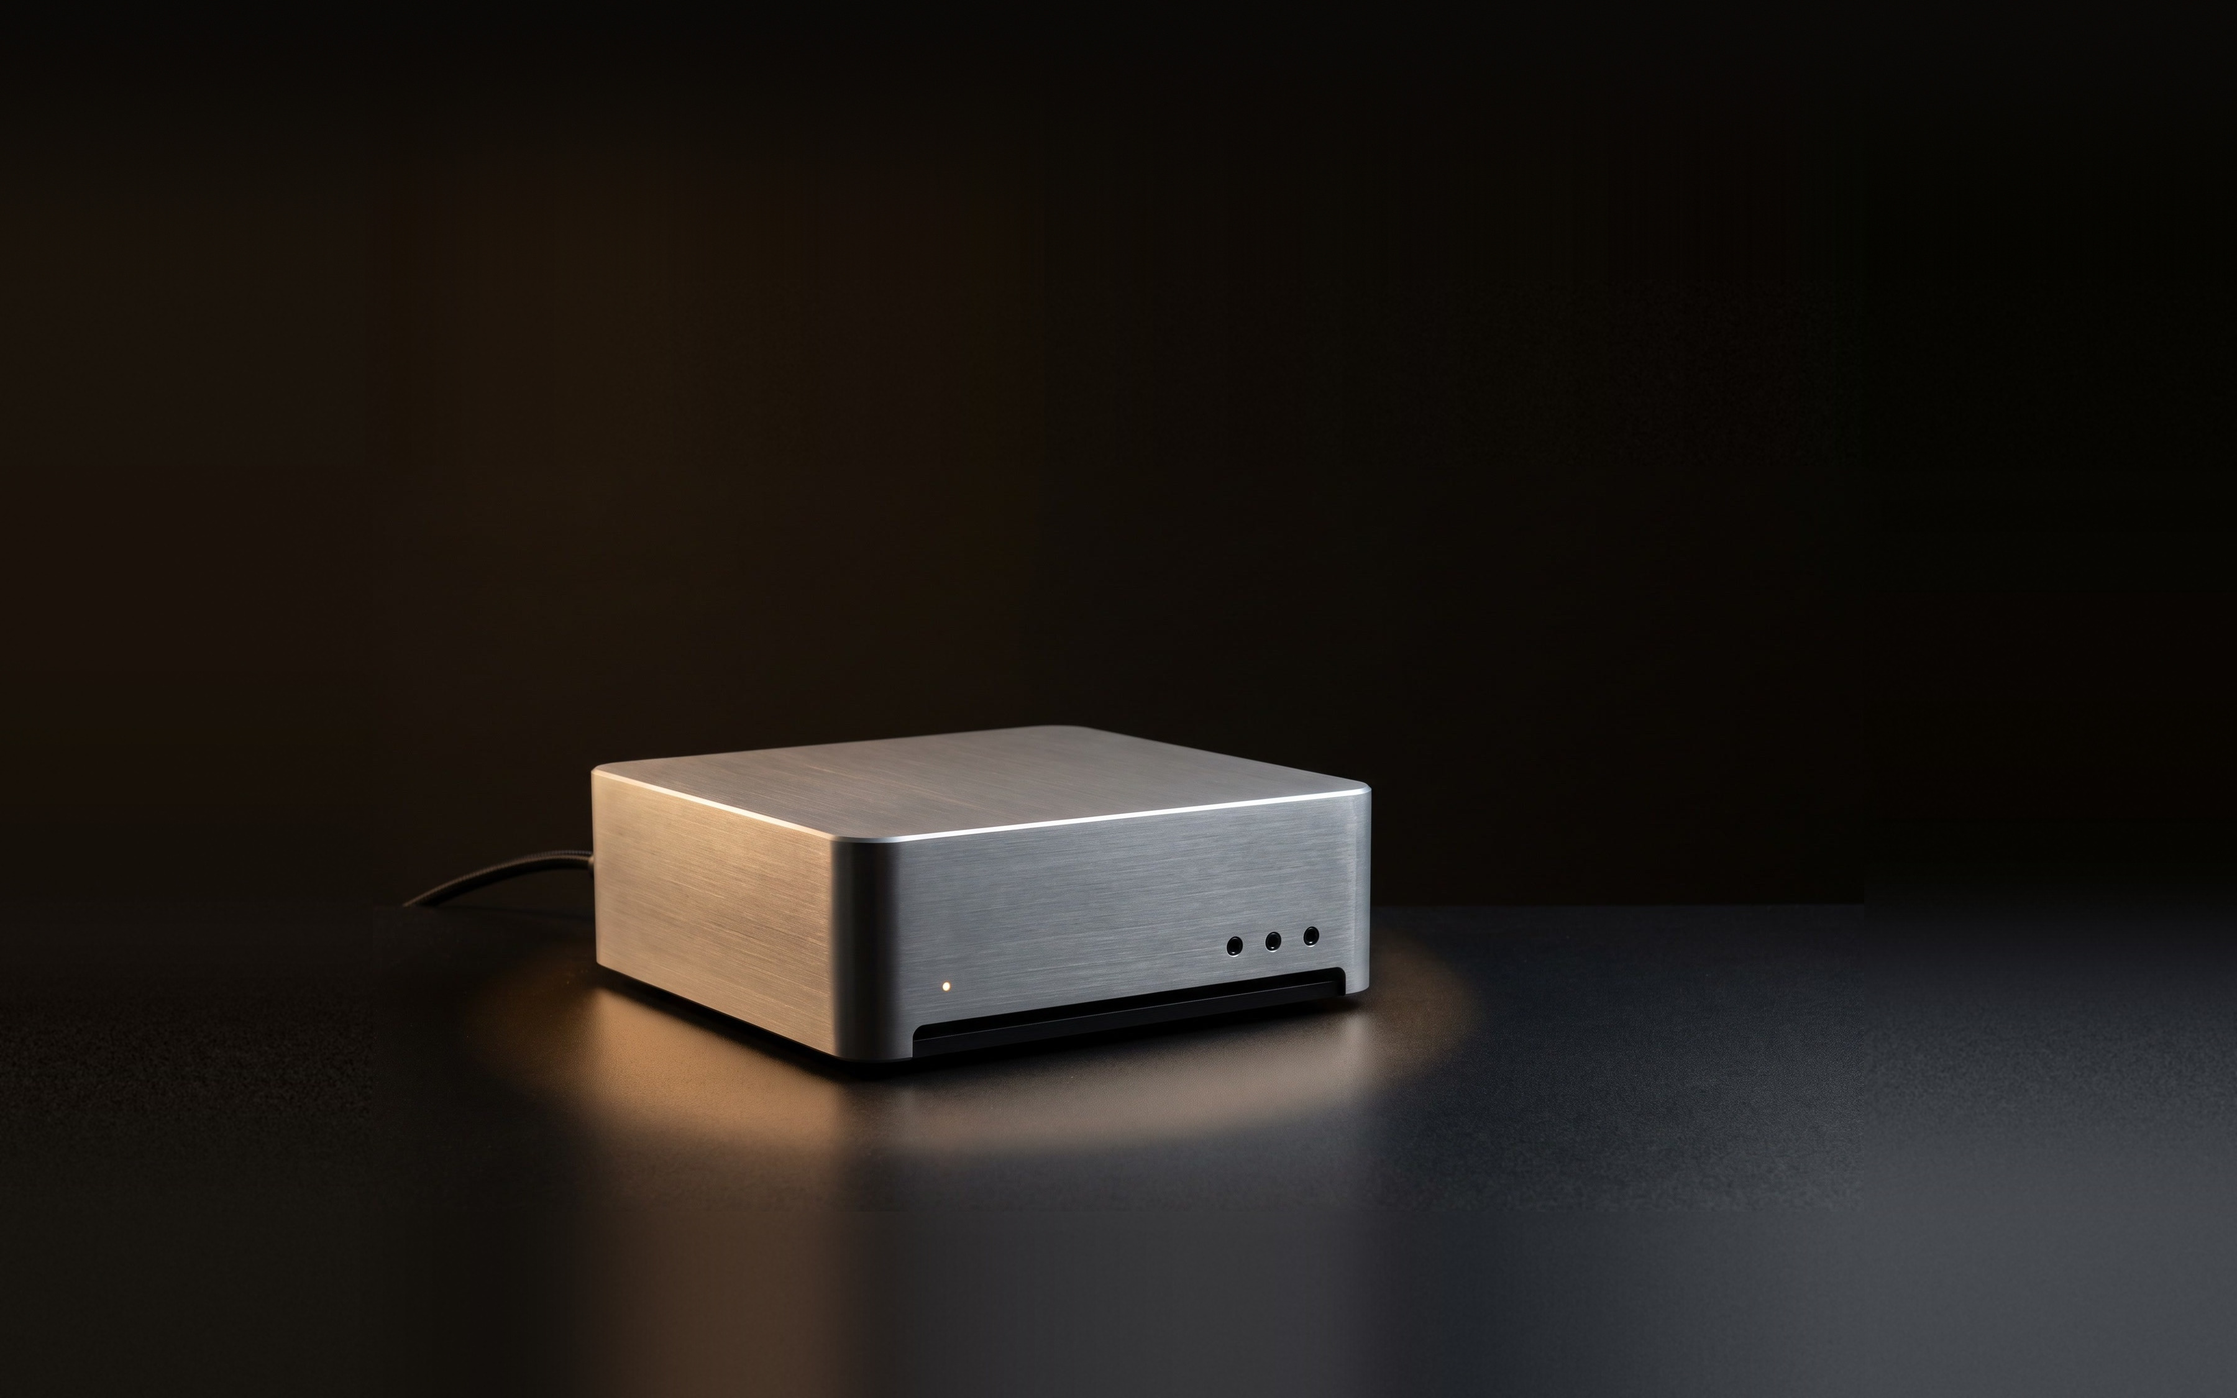
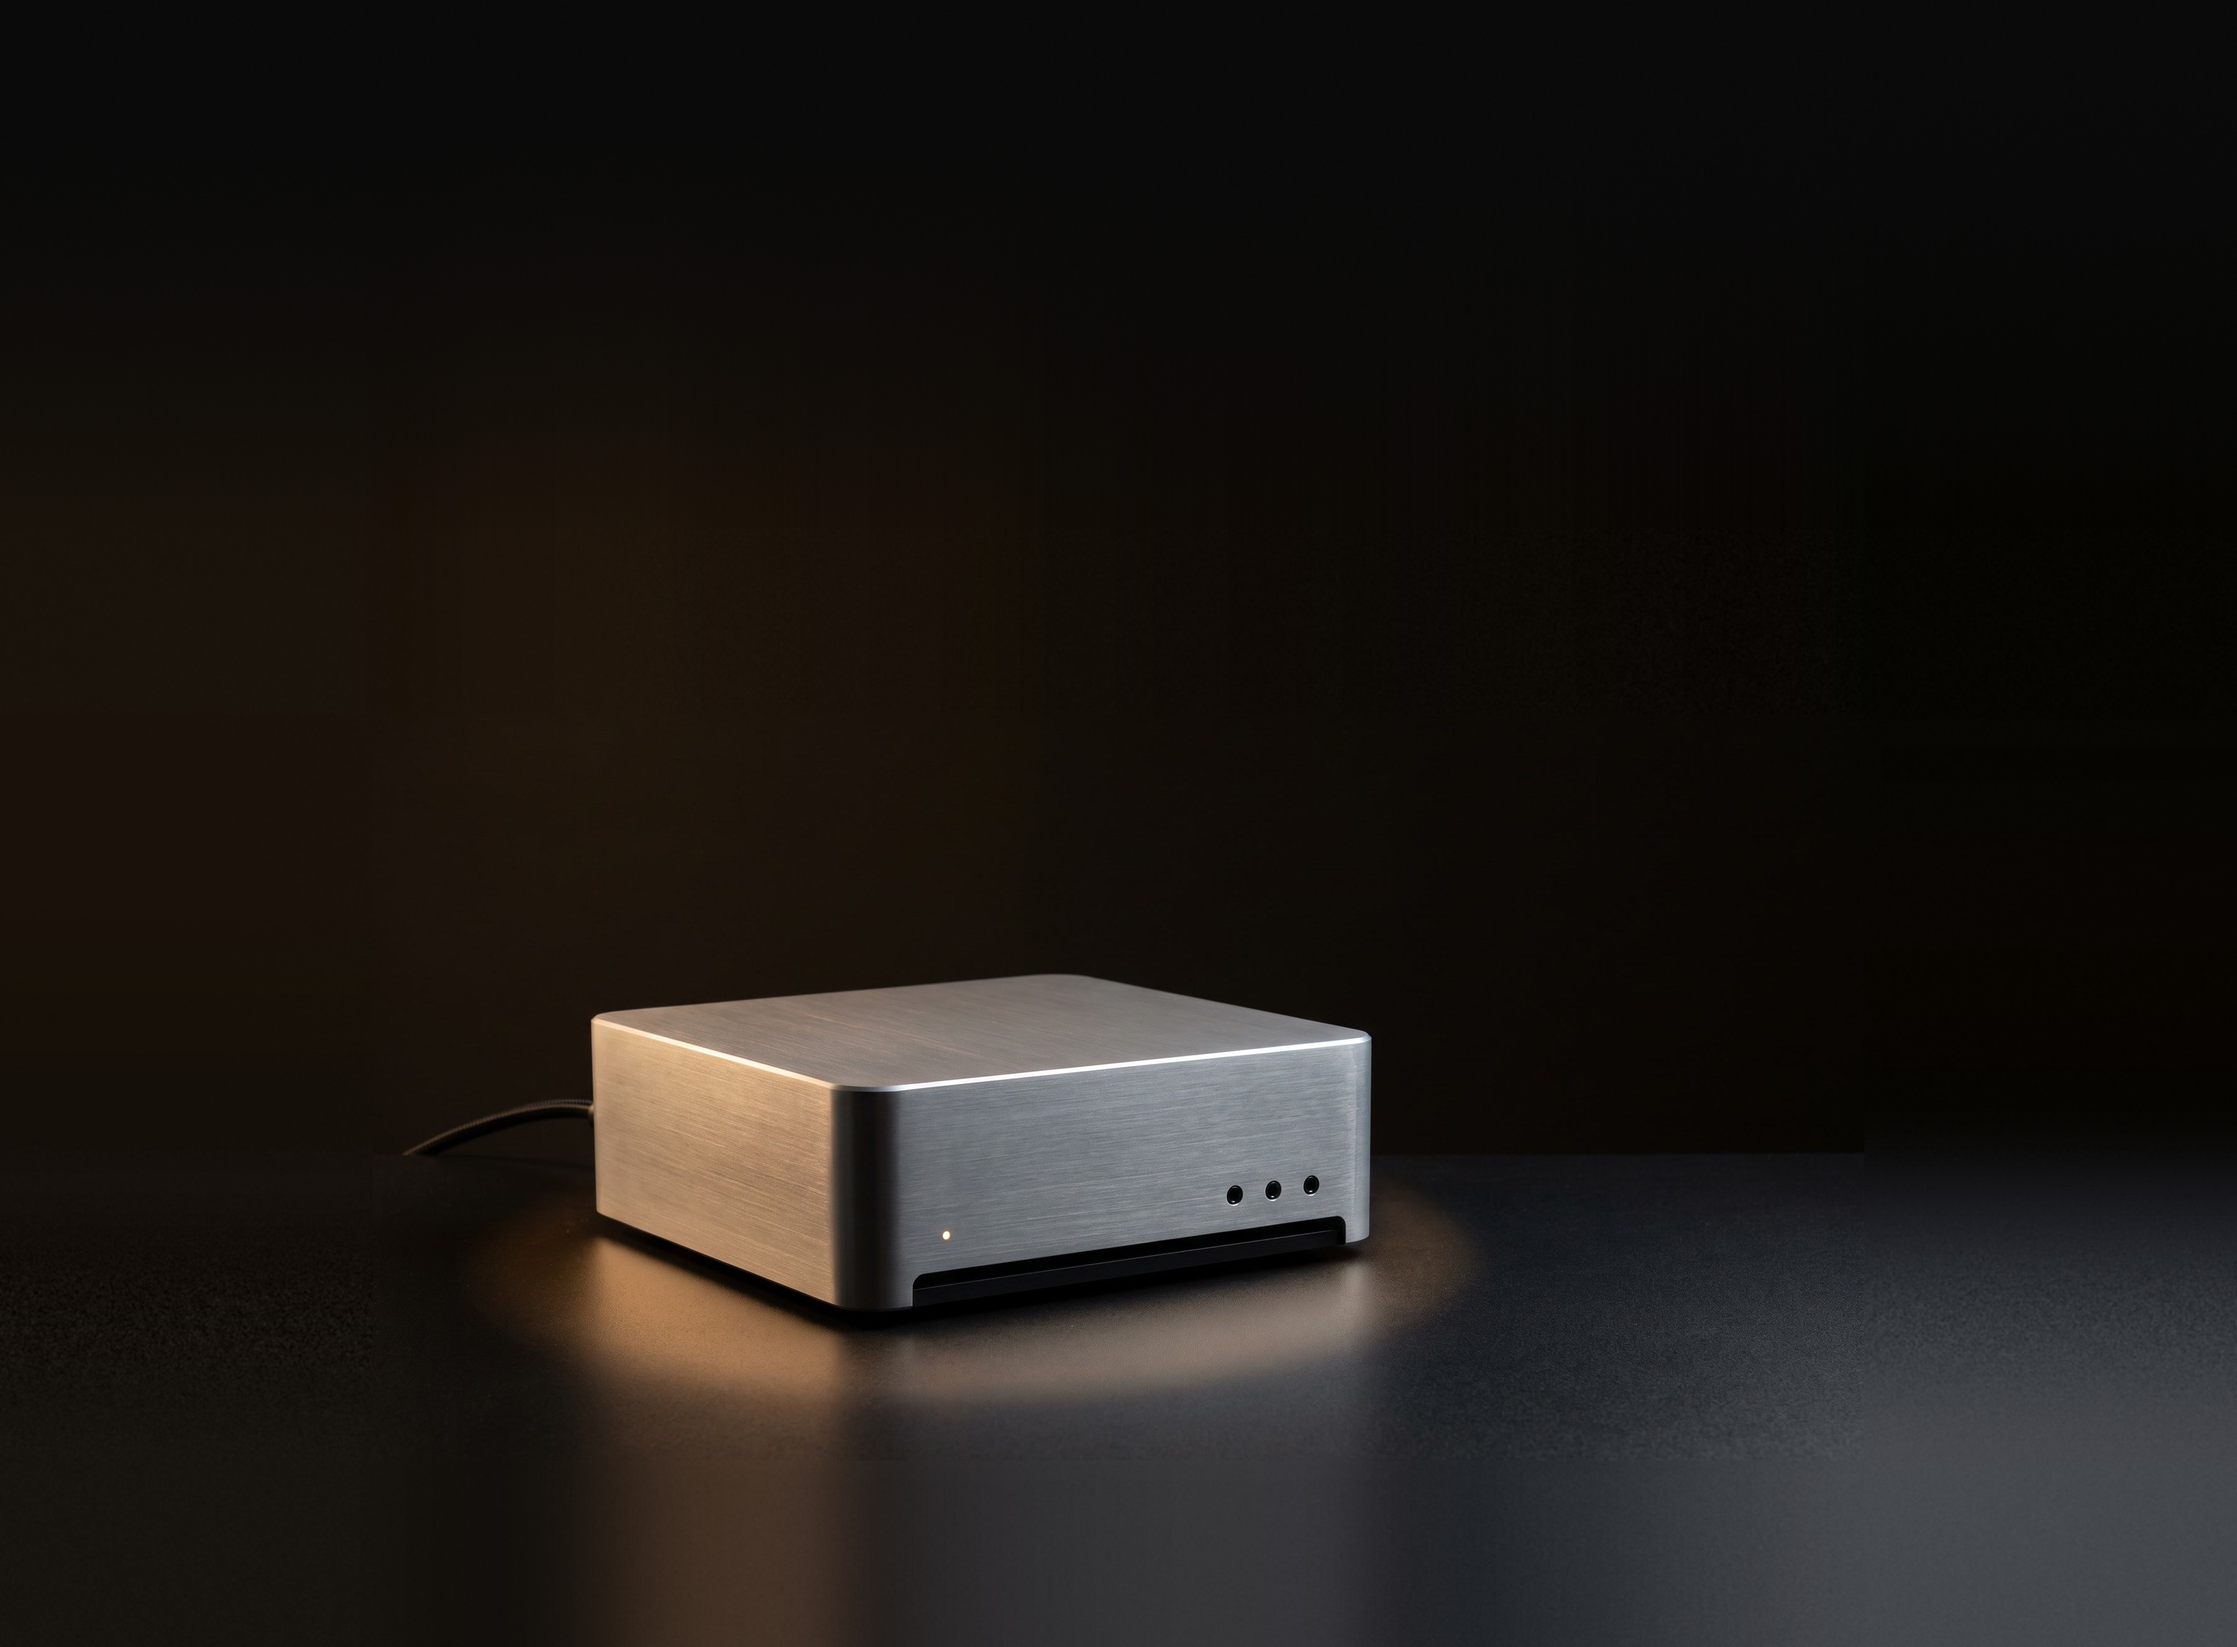
hero: more headroom, and the picture has no edges any more
Juan: more space at the top, gradients top and bottom so the photo merges
into the page's black, text higher, buttons level with where the group
titles start.

Headroom went from 450 generated rows to 850, so the canvas is now
3600x2650 and the frame is 72:53. The number is not a guess. The buttons sit
at nav height plus 3.4vw plus the copy block, and the group titles sit at
source y 135 plus the headroom, so 850 is what makes those two land on the
same line. Measured at 1440: buttons 392-447, "What feeds it" 394-442.

The generated band now eases on t^2.1 instead of a smoothstep, and settles on
#0A0A0A, which is the page's own --color-dark rather than the warm ground I
used before. Top six rows average 9.5/9.5/9.5 against the page's 10/10/10, and
row 300 is still 10.4/9.8/9.1 — so the top third of the band is the page, and
the photograph's own falloff only appears near the join. The per-column blend
is kept, so the warm glow on the left still carries up.

The veil is four layers now: page-colour blends into the top 32% and the
bottom 27%, a vignette on the wings, and a light hold over the band the copy
sits in. The heavy top scrim is gone — it was compensating for a photo that
started too high, and there is nothing left to hide.

All 15 wire paths, 12 dots and 14 labels were shifted programmatically rather
than by hand this time, parsing the path commands so only y values moved.

Nothing below 1000px changed: the phone still gets the 2:1 photo, the stacked
[…]

Changed region(s): [[0.2178, 0.4978, 0.6533, 0.8711], [0.6844, 0.6533, 1.0, 0.7778], [0.1867, 0.6222, 0.2178, 0.6533]]

diff --git a/index.html b/index.html
@@ -92,7 +92,7 @@
   --mm-mono:'IBM Plex Mono',ui-monospace,SFMono-Regular,Menlo,monospace;
   container-type:inline-size;
   position:relative;z-index:1;width:100%;max-width:2200px;margin:clamp(1.5rem,3vw,3rem) auto 0;
-  aspect-ratio:16/10;overflow:hidden;background:#14110E;font-family:var(--mm-mono)
+  aspect-ratio:72/53;overflow:hidden;background:#14110E;font-family:var(--mm-mono)
 }
 .mm-machine img{position:absolute;inset:0;width:100%;height:100%;object-fit:cover;display:block}
 .mm-machine .mm-wires,.mm-machine .mm-labels{position:absolute;inset:0;width:100%;height:100%}
@@ -181,11 +181,17 @@
   .mm-machine::after{
     content:'';position:absolute;inset:0;z-index:5;pointer-events:none;
     background:
-      linear-gradient(0deg, #0A0A0A 0%, rgba(10,10,10,.65) 5%, rgba(10,10,10,0) 13%),
-      radial-gradient(120% 78% at 50% 68%, rgba(11,9,7,0) 34%, rgba(11,9,7,.55) 100%),
-      linear-gradient(180deg,
-        rgba(11,9,7,.90) 0%, rgba(11,9,7,.86) 14%, rgba(11,9,7,.66) 27%,
-        rgba(11,9,7,.30) 40%, rgba(11,9,7,0) 55%)
+      /* the join at the top and the bottom is exactly the page colour, so the
+         picture has no edge — it emerges out of the page and sinks back in */
+      linear-gradient(180deg, #0A0A0A 0%, rgba(10,10,10,.92) 8%,
+                              rgba(10,10,10,.55) 18%, rgba(10,10,10,0) 32%),
+      linear-gradient(0deg,   #0A0A0A 0%, rgba(10,10,10,.90) 5%,
+                              rgba(10,10,10,.55) 12%, rgba(10,10,10,.20) 19%,
+                              rgba(10,10,10,0) 27%),
+      /* the wings fall away so the box stays the brightest thing in frame */
+      radial-gradient(118% 70% at 50% 66%, rgba(11,9,7,0) 32%, rgba(11,9,7,.55) 100%),
+      /* a light hold over the band the copy sits in */
+      linear-gradient(180deg, rgba(11,9,7,.34) 26%, rgba(11,9,7,0) 46%)
   }
   /* the labels are background now, not content */
   .mm-wires{opacity:.58}
@@ -285,65 +291,65 @@
                 <circle cx="63" cy="194" r="3.4"/>
               </svg>
 
-              <svg class="mm-wires" viewBox="0 0 3600 2250" preserveAspectRatio="none" aria-hidden="true">
+              <svg class="mm-wires" viewBox="0 0 3600 2650" preserveAspectRatio="none" aria-hidden="true">
                 <!-- IN: six sources, one way, stopping at the machine's left edge -->
                 <g class="mm-wire">
-                  <path d="M 790 756  H 830 Q 880 756 880 806 V 1430 H 935"/>
-                  <path d="M 790 954  H 850 Q 900 954 900 1004 V 1450 H 935"/>
-                  <path d="M 790 1152 H 870 Q 920 1152 920 1202 V 1470 H 935"/>
-                  <path d="M 790 1674 H 870 Q 920 1674 920 1624 V 1560 H 935"/>
-                  <path d="M 790 1872 H 850 Q 900 1872 900 1822 V 1580 H 935"/>
-                  <path d="M 790 2070 H 830 Q 880 2070 880 2020 V 1600 H 935"/>
+                  <path d="M 790 1156.0 H 830 Q 880 1156.0 880 1206.0 V 1830.0 H 935"/>
+                  <path d="M 790 1354.0 H 850 Q 900 1354.0 900 1404.0 V 1850.0 H 935"/>
+                  <path d="M 790 1552.0 H 870 Q 920 1552.0 920 1602.0 V 1870.0 H 935"/>
+                  <path d="M 790 2074.0 H 870 Q 920 2074.0 920 2024.0 V 1960.0 H 935"/>
+                  <path d="M 790 2272.0 H 850 Q 900 2272.0 900 2222.0 V 1980.0 H 935"/>
+                  <path d="M 790 2470.0 H 830 Q 880 2470.0 880 2420.0 V 2000.0 H 935"/>
                 </g>
                 <g class="mm-dot">
-                  <circle cx="935" cy="1430" r="9"/><circle cx="935" cy="1450" r="9"/>
-                  <circle cx="935" cy="1470" r="9"/><circle cx="935" cy="1560" r="9"/>
-                  <circle cx="935" cy="1580" r="9"/><circle cx="935" cy="1600" r="9"/>
+                  <circle cx="935" cy="1830" r="9"/><circle cx="935" cy="1850" r="9"/>
+                  <circle cx="935" cy="1870" r="9"/><circle cx="935" cy="1960" r="9"/>
+                  <circle cx="935" cy="1980" r="9"/><circle cx="935" cy="2000" r="9"/>
                 </g>
                 <!-- OUT: the agents, two way -->
                 <g class="mm-wire mm-two">
-                  <path d="M 2260 1455 H 2440 Q 2540 1455 2540 1355 V 880  H 2890"/>
-                  <path d="M 2260 1475 H 2500 Q 2590 1475 2590 1405 V 1110 H 2890"/>
-                  <path d="M 2260 1495 H 2560 Q 2640 1495 2640 1445 V 1340 H 2890"/>
-                  <path d="M 2260 1525 H 2500 Q 2590 1525 2590 1575 V 1670 H 2890"/>
+                  <path d="M 2260 1855.0 H 2440 Q 2540 1855.0 2540 1755.0 V 1280.0 H 2890"/>
+                  <path d="M 2260 1875.0 H 2500 Q 2590 1875.0 2590 1805.0 V 1510.0 H 2890"/>
+                  <path d="M 2260 1895.0 H 2560 Q 2640 1895.0 2640 1845.0 V 1740.0 H 2890"/>
+                  <path d="M 2260 1925.0 H 2500 Q 2590 1925.0 2590 1975.0 V 2070.0 H 2890"/>
                 </g>
                 <g class="mm-dot mm-two">
-                  <circle cx="2260" cy="1455" r="9"/><circle cx="2260" cy="1475" r="9"/>
-                  <circle cx="2260" cy="1495" r="9"/><circle cx="2260" cy="1525" r="9"/>
+                  <circle cx="2260" cy="1855" r="9"/><circle cx="2260" cy="1875" r="9"/>
+                  <circle cx="2260" cy="1895" r="9"/><circle cx="2260" cy="1925" r="9"/>
                 </g>
                 <!-- the laptops hang off the AGENTS, not off the machine -->
                 <g class="mm-wire mm-two mm-thin">
-                  <path d="M 3330 950  V 1940"/><path d="M 3330 1180 V 1940"/>
-                  <path d="M 3330 1410 V 1940"/><path d="M 3330 1740 V 1940"/>
+                  <path d="M 3330 1350.0 V 2340.0"/><path d="M 3330 1580.0 V 2340.0"/>
+                  <path d="M 3330 1810.0 V 2340.0"/><path d="M 3330 2140.0 V 2340.0"/>
                 </g>
-                <g class="mm-wire mm-thin"><path d="M 3330 1940 H 3120"/></g>
-                <circle class="mm-dot mm-two" cx="3330" cy="1940" r="10"/>
-                <circle class="mm-dot" cx="3120" cy="1940" r="9"/>
+                <g class="mm-wire mm-thin"><path d="M 3330 2340.0 H 3120"/></g>
+                <circle class="mm-dot mm-two" cx="3330" cy="2340" r="10"/>
+                <circle class="mm-dot" cx="3120" cy="2340" r="9"/>
               </svg>
 
               <div class="mm-labels">
-                <div class="mm-grp mm-l" style="left:20.5%;top:26.0%">What feeds it</div>
-                <div class="mm-row mm-l" style="left:20.5%;top:33.6%"><span class="mm-nm">Documents and notes</span>
+                <div class="mm-grp mm-l" style="left:20.5%;top:37.17%">What feeds it</div>
+                <div class="mm-row mm-l" style="left:20.5%;top:43.62%"><span class="mm-nm">Documents and notes</span>
                   <span class="mm-marks"><svg><use href="#i-notion"/></svg><svg><use href="#i-googledocs"/></svg></span></div>
-                <div class="mm-row mm-l" style="left:20.5%;top:42.4%"><span class="mm-nm">Files</span>
+                <div class="mm-row mm-l" style="left:20.5%;top:51.09%"><span class="mm-nm">Files</span>
                   <span class="mm-marks"><svg><use href="#i-googledrive"/></svg><svg><use href="#i-dropbox"/></svg><svg><use href="#i-microsoftonedrive"/></svg></span></div>
-                <div class="mm-row mm-l" style="left:20.5%;top:51.2%"><span class="mm-nm">Chat and email</span>
+                <div class="mm-row mm-l" style="left:20.5%;top:58.57%"><span class="mm-nm">Chat and email</span>
                   <span class="mm-marks"><svg><use href="#i-slack"/></svg><svg><use href="#i-microsoftteams"/></svg><svg><use href="#i-gmail"/></svg></span></div>
-                <div class="mm-row mm-l" style="left:20.5%;top:74.4%"><span class="mm-nm">Meetings</span>
+                <div class="mm-row mm-l" style="left:20.5%;top:78.26%"><span class="mm-nm">Meetings</span>
                   <span class="mm-marks"><svg><use href="#i-googlemeet"/></svg><svg viewBox="0 0 24 24"><path d="M17 10.5V7a1 1 0 00-1-1H4a1 1 0 00-1 1v10a1 1 0 001 1h12a1 1 0 001-1v-3.5l4 3.5V7l-4 3.5z"/></svg></span></div>
-                <div class="mm-row mm-l" style="left:20.5%;top:83.2%"><span class="mm-nm">Project tracker</span>
+                <div class="mm-row mm-l" style="left:20.5%;top:85.74%"><span class="mm-nm">Project tracker</span>
                   <span class="mm-marks"><svg><use href="#i-clickup"/></svg><svg><use href="#i-linear"/></svg><svg><use href="#i-jira"/></svg></span></div>
-                <div class="mm-row mm-l" style="left:20.5%;top:92.0%"><span class="mm-nm">Your own folder</span>
+                <div class="mm-row mm-l" style="left:20.5%;top:93.21%"><span class="mm-nm">Your own folder</span>
                   <span class="mm-marks"><svg viewBox="0 0 24 24"><path d="M3 6.5A1.5 1.5 0 014.5 5h4.2l1.8 2h9A1.5 1.5 0 0121 8.5v10a1.5 1.5 0 01-1.5 1.5h-15A1.5 1.5 0 013 18.5v-12z"/></svg></span></div>
 
-                <div class="mm-grp mm-wrap" style="left:80.3%;top:28.0%">What asks and adds</div>
-                <div class="mm-row mm-two" style="left:80.3%;top:39.1%"><span class="mm-marks"><svg><use href="#i-claude"/></svg></span><span class="mm-nm">Claude Code</span></div>
-                <div class="mm-row mm-two" style="left:80.3%;top:49.4%"><span class="mm-marks"><svg><use href="#i-openai"/></svg></span><span class="mm-nm">Codex</span></div>
-                <div class="mm-row mm-two" style="left:80.3%;top:59.5%"><span class="mm-marks"><svg><use href="#i-cursor"/></svg></span><span class="mm-nm">Cursor</span></div>
-                <div class="mm-row mm-two" style="left:80.3%;top:74.2%"><span class="mm-marks"><svg><use href="#i-claude"/></svg></span><span class="mm-nm">claude.ai</span></div>
+                <div class="mm-grp mm-wrap" style="left:80.3%;top:38.87%">What asks and adds</div>
+                <div class="mm-row mm-two" style="left:80.3%;top:48.29%"><span class="mm-marks"><svg><use href="#i-claude"/></svg></span><span class="mm-nm">Claude Code</span></div>
+                <div class="mm-row mm-two" style="left:80.3%;top:57.04%"><span class="mm-marks"><svg><use href="#i-openai"/></svg></span><span class="mm-nm">Codex</span></div>
+                <div class="mm-row mm-two" style="left:80.3%;top:65.61%"><span class="mm-marks"><svg><use href="#i-cursor"/></svg></span><span class="mm-nm">Cursor</span></div>
+                <div class="mm-row mm-two" style="left:80.3%;top:78.09%"><span class="mm-marks"><svg><use href="#i-claude"/></svg></span><span class="mm-nm">claude.ai</span></div>
 
-                <div class="mm-grp mm-l" style="left:86.0%;top:81.2%;font-size:clamp(13px,1.38cqw,21px);letter-spacing:.18em;color:var(--mm-faint)">Through the agents</div>
-                <div class="mm-row mm-l" style="left:86.0%;top:86.2%"><span class="mm-nm">Your editors' laptops</span></div>
+                <div class="mm-grp mm-l" style="left:86.0%;top:84.04%;font-size:clamp(13px,1.38cqw,21px);letter-spacing:.18em;color:var(--mm-faint)">Through the agents</div>
+                <div class="mm-row mm-l" style="left:86.0%;top:88.28%"><span class="mm-nm">Your editors' laptops</span></div>
               </div>
         </figure>
     </section>
